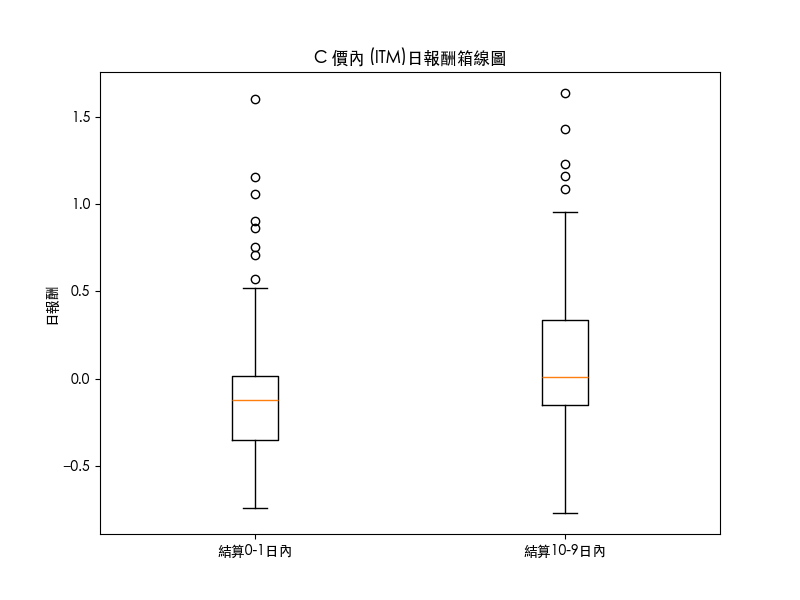
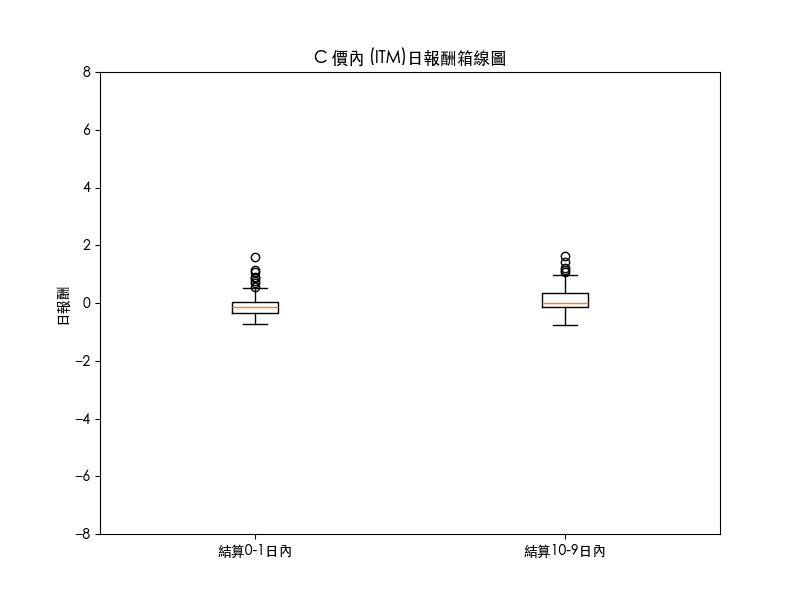
final result

diff --git a/驗證波動/驗證波動.py b/驗證波動/驗證波動.py
@@ -120,8 +120,8 @@ def f_test(df_0, df_10):
     # 判断差异是否显著
     variance_0 = round(variance_0, 5)
     variance_10 = round(variance_10, 5)
-    F_value = round(F_value, 5)
-    p_value = round(p_value, 5)
+    F_value = F_value
+    p_value = p_value
 
     return std_0, std_10, F_value, p_value
 
@@ -185,6 +185,7 @@ def perform_f_test(
         [df_0['每日價格波動率'], df_10['每日價格波動率']],
         labels=[f'結算{0}-{day_1}日內', f'結算{day_2+1}-{day_2}日內'],
     )
+    plt.ylim(-8,8)
     plt.title(f'{option_type} {price_type}日報酬箱線圖')
     plt.ylabel('日報酬')
     plt.savefig(temp_image_path)

diff --git a/驗證波動/report.md b/驗證波動/report.md
@@ -9,9 +9,9 @@
 
             - 結算2-9日內自由度: 562
 
-            - f值: 0.68574
+            - f值: 0.685735358939439
 
-            - p值: 0.99487
+            - p值: 0.9948666340791196
 
             - alpha值: 0.05
 
@@ -30,9 +30,9 @@
 
             - 結算2-9日內自由度: 472
 
-            - f值: 1.32928
+            - f值: 1.329280484932998
 
-            - p值: 0.02634
+            - p值: 0.026344336403490654
 
             - alpha值: 0.05
 
@@ -51,9 +51,9 @@
 
             - 結算2-9日內自由度: 492
 
-            - f值: 16.22434
+            - f值: 16.224344157623875
 
-            - p值: 0.0
+            - p值: 1.1102230246251565e-16
 
             - alpha值: 0.05
 
@@ -72,9 +72,9 @@
 
             - 結算2-9日內自由度: 438
 
-            - f值: 3.2486
+            - f值: 3.2486021908290903
 
-            - p值: 0.0
+            - p值: 1.1102230246251565e-16
 
             - alpha值: 0.05
 
@@ -93,9 +93,9 @@
 
             - 結算2-9日內自由度: 462
 
-            - f值: 0.71095
+            - f值: 0.7109496446556758
 
-            - p值: 0.97802
+            - p值: 0.9780154352821665
 
             - alpha值: 0.05
 
@@ -114,7 +114,7 @@
 
             - 結算2-9日內自由度: 462
 
-            - f值: 0.19324
+            - f值: 0.19323759383174072
 
             - p值: 1.0
 
@@ -135,9 +135,9 @@
 
             - 結算2-9日內自由度: 438
 
-            - f值: 0.80735
+            - f值: 0.8073511016664843
 
-            - p值: 0.89581
+            - p值: 0.8958130791077958
 
             - alpha值: 0.05
 
@@ -156,9 +156,9 @@
 
             - 結算2-9日內自由度: 492
 
-            - f值: 19.33255
+            - f值: 19.33254780827596
 
-            - p值: 0.0
+            - p值: 1.1102230246251565e-16
 
             - alpha值: 0.05
 
@@ -177,9 +177,9 @@
 
             - 結算2-9日內自由度: 472
 
-            - f值: 2.73721
+            - f值: 2.737207775993298
 
-            - p值: 0.0
+            - p值: 2.2326585025211898e-13
 
             - alpha值: 0.05
 
@@ -198,9 +198,9 @@
 
             - 結算2-9日內自由度: 562
 
-            - f值: 1.4071
+            - f值: 1.4071019463525734
 
-            - p值: 0.00516
+            - p值: 0.005163376762167715
 
             - alpha值: 0.05
 
